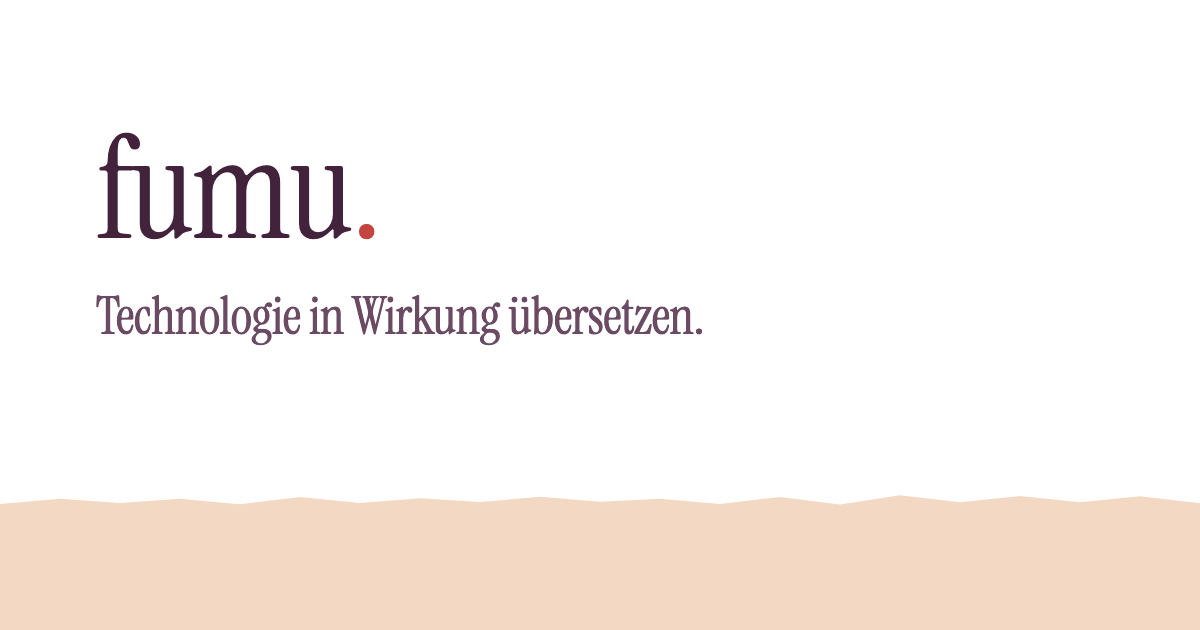
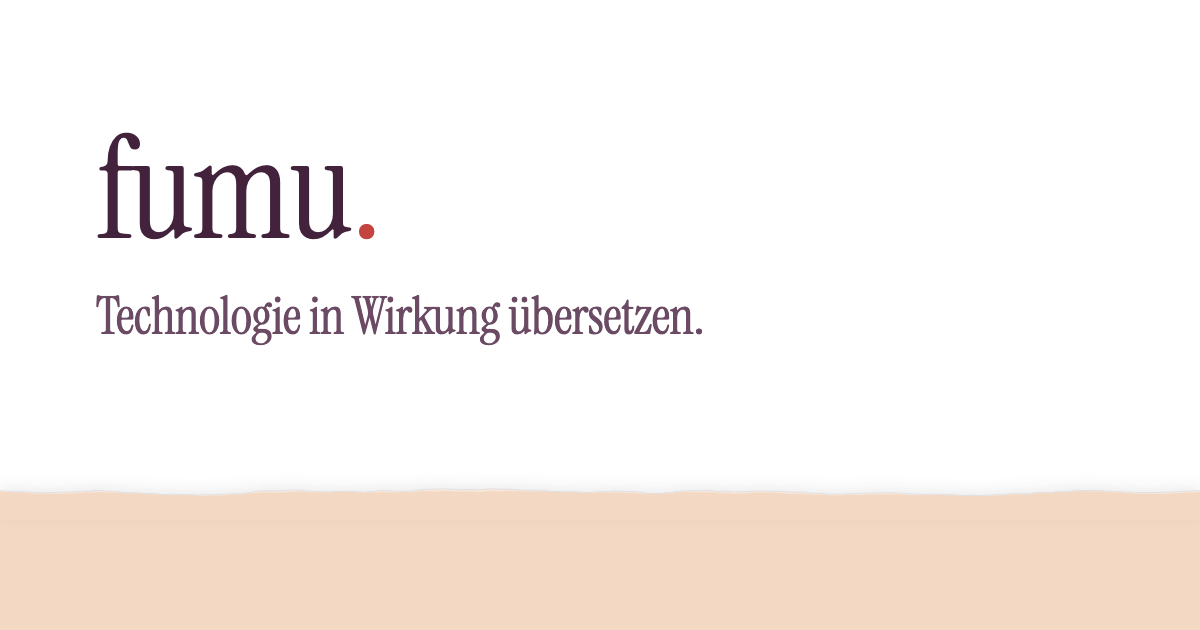
Riss: OG-Bild und CLAUDE.md
Das Standard-OG-Bild zeigt an der Oberkante des Rosé-Streifens denselben
feinen Papierriss wie die Sockelkante (scripts/brand-assets.mjs nutzt
riss.ts). CLAUDE.md beschreibt Riss, Knopf und Sockelkante.

Claude-Session: https://claude.ai/code/session_014xHypxsTvPBgjiRctAFQ36

Changed region(s): [[0.0, 0.754, 1.0, 0.8143]]

diff --git a/CLAUDE.md b/CLAUDE.md
@@ -182,8 +182,10 @@ Link-, Fokus- und Titelfarbe hängen an vererbbaren Variablen (`--link`, `--focu
 ### Formen
 
 - Papierkarte `Karte.astro`: `--radius-cut` (ungleiche Ecken), `--shadow-layer`; Töne Coral, Safran, Rosé-hell, Weiss.
-- Gerissenes Papier: `--torn-1`, `--torn-2`, `--torn-3`, `--torn-edge` (clip-path-Polygone aus festen Startwerten, `src/lib/torn-paper.ts`). Sie stehen erzeugt in `src/styles/torn-paper.css`, das `BaseLayout` importiert; nach einer Änderung an `torn-paper.ts` `node scripts/torn-css.mjs` laufen lassen, sonst schlägt der Test fehl. Illustrationen (`-hero`-Bilder) und Loop-Videos im Markdown liegen automatisch auf einer Papierform in Rosé-hell (`global.css`), Bilder im Layout über `PapierBild.astro`, optional mit stummem Loop-Video (`video`; das Bild bleibt Poster, Alt-Text-Träger und Ersatz bei «Bewegung reduzieren»). Startbild: `public/images/home/hero-team.{webp,mp4}`, Original-PNG im Vault.
-- Sockel `Sockel.astro`: Pflaume mit gerissener Oberkante; enthält den Slot `sockel` aus `BaseLayout` (seitenspezifisch: Zitat, Perspektiven als Blätter über `PerspektivenBlaetter.astro`), den Abschluss «25 Minuten Kennenlernen» (Text aus der Sektion «Termin» in `src/data/pages/kontakt.ts`, abschaltbar mit `BaseLayout`-Prop `abschluss={false}`, nur auf `/kontakt/`), die Newsletter-Zeile und den Fuss mit Link zum AI-Crawler-Radar.
+- Gerissenes Papier hinter Bildern: `--torn-1`, `--torn-2`, `--torn-3` (clip-path-Polygone aus festen Startwerten, `src/lib/torn-paper.ts`). Illustrationen (`-hero`-Bilder) und Loop-Videos im Markdown liegen automatisch auf einer Papierform in Rosé-hell (`global.css`), Bilder im Layout über `PapierBild.astro`, optional mit stummem Loop-Video (`video`; das Bild bleibt Poster, Alt-Text-Träger und Ersatz bei «Bewegung reduzieren»). Startbild: `public/images/home/hero-team.{webp,mp4}`, Original-PNG im Vault.
+- Feiner Papierriss (seit 2026-11-23, Entwurf `docs/plans/2026-11-23-riss-kante-entwurf.md`) an Sockelkante, Knöpfen und OG-Bild: `src/lib/riss.ts` erzeugt nahtlos kachelbare SVG-Streifen aus periodischem Rauschen (mulberry32 aus `src/lib/zufall.ts`, dieselbe Rezeptur wie der Linksrand der PDF-Vorlagen im Vault). Als `--riss-*`-Variablen stehen sie mit den `--torn-*` erzeugt in `src/styles/torn-paper.css`, das `BaseLayout` importiert; nach einer Änderung an `riss.ts` oder `torn-paper.ts` `node scripts/torn-css.mjs` laufen lassen, sonst schlägt der Test fehl.
+- Knopf `.btn` (`global.css`): ausgerissener Streifen – Fläche im `::before` (Maske `--riss-oben`/`--riss-unten`, Seiten `--riss-seiten`), heller Faserrand im `::after`, Farbe über `--btn-farbe`, Schatten als `drop-shadow`, im Kontrastmodus ein Rahmen. Auch der Newsletter-Knopf nutzt `.btn`; nie `background` auf einen Knopf setzen, sonst liegt ein Rechteck hinter dem Riss. Prüfung: `node scripts/knopf-check.mjs`.
+- Sockel `Sockel.astro`: Pflaume, Oberkante als wiederholte Riss-Kachel `--riss-kante` mit Schatten zur weissen Seite; enthält den Slot `sockel` aus `BaseLayout` (seitenspezifisch: Zitat, Perspektiven als Blätter über `PerspektivenBlaetter.astro`), den Abschluss «25 Minuten Kennenlernen» (Text aus der Sektion «Termin» in `src/data/pages/kontakt.ts`, abschaltbar mit `BaseLayout`-Prop `abschluss={false}`, nur auf `/kontakt/`), die Newsletter-Zeile und den Fuss mit Link zum AI-Crawler-Radar.
 
 ### Spacing
 

diff --git a/docs/plans/2026-11-23-riss-kante-umsetzung.md b/docs/plans/2026-11-23-riss-kante-umsetzung.md
@@ -105,8 +105,8 @@
 **Interfaces:**
 - Consumes: `rissKanteSvg`, `svgDataUri`, `mischFarbe`, `FARBEN` (Task 1).
 
-- [ ] **Step 1: `brand-assets.mjs`** – Import `tornEdge` ersetzen; die Papierkante im OG-Bild als `background: ${svgDataUri(rissKanteSvg({ farbe: FARBEN.blush, faser: mischFarbe(FARBEN.blush, FARBEN.white, .37) }))} repeat-x` über dem Rosé-Streifen. `node scripts/brand-assets.mjs`; Bild ansehen.
-- [ ] **Step 2: `CLAUDE.md`** – Formen: Sockelkante und Knöpfe aus `src/lib/riss.ts` (Variablen `--riss-*` in `torn-paper.css`), `--torn-1…3` nur noch für die Papierformen hinter Bildern, `.btn` zeichnet die Fläche in `::before` (Farbe über `--btn-farbe`).
-- [ ] **Step 3: Abnahme** – `npm run build && npx vitest run` grün; `node scripts/text-diff.mjs <stand-vorher> dist` ohne Unterschiede (Stand vor Task 1 in den Scratchpad sichern); Markdown-, llms-, RSS-Dateien byte-gleich; `node scripts/overflow-check.mjs` und `node scripts/knopf-check.mjs` ohne Befund.
-- [ ] **Step 4: Commit** «Riss: OG-Bild und CLAUDE.md».
+- [x] **Step 1: `brand-assets.mjs`** – Import `tornEdge` ersetzen; die Papierkante im OG-Bild als `background: ${svgDataUri(rissKanteSvg({ farbe: FARBEN.blush, faser: mischFarbe(FARBEN.blush, FARBEN.white, .37) }))} repeat-x` über dem Rosé-Streifen. `node scripts/brand-assets.mjs`; Bild ansehen.
+- [x] **Step 2: `CLAUDE.md`** – Formen: Sockelkante und Knöpfe aus `src/lib/riss.ts` (Variablen `--riss-*` in `torn-paper.css`), `--torn-1…3` nur noch für die Papierformen hinter Bildern, `.btn` zeichnet die Fläche in `::before` (Farbe über `--btn-farbe`).
+- [x] **Step 3: Abnahme** – `npm run build && npx vitest run` grün; `node scripts/text-diff.mjs <stand-vorher> dist` ohne Unterschiede (Stand vor Task 1 in den Scratchpad sichern); Markdown-, llms-, RSS-Dateien byte-gleich; `node scripts/overflow-check.mjs` und `node scripts/knopf-check.mjs` ohne Befund.
+- [x] **Step 4: Commit** «Riss: OG-Bild und CLAUDE.md».
 - [ ] **Step 5: Lokal-Review mit Jochen** – Dev-Server auf freiem Port, auch in Safari; Push nur auf seine Ansage.
